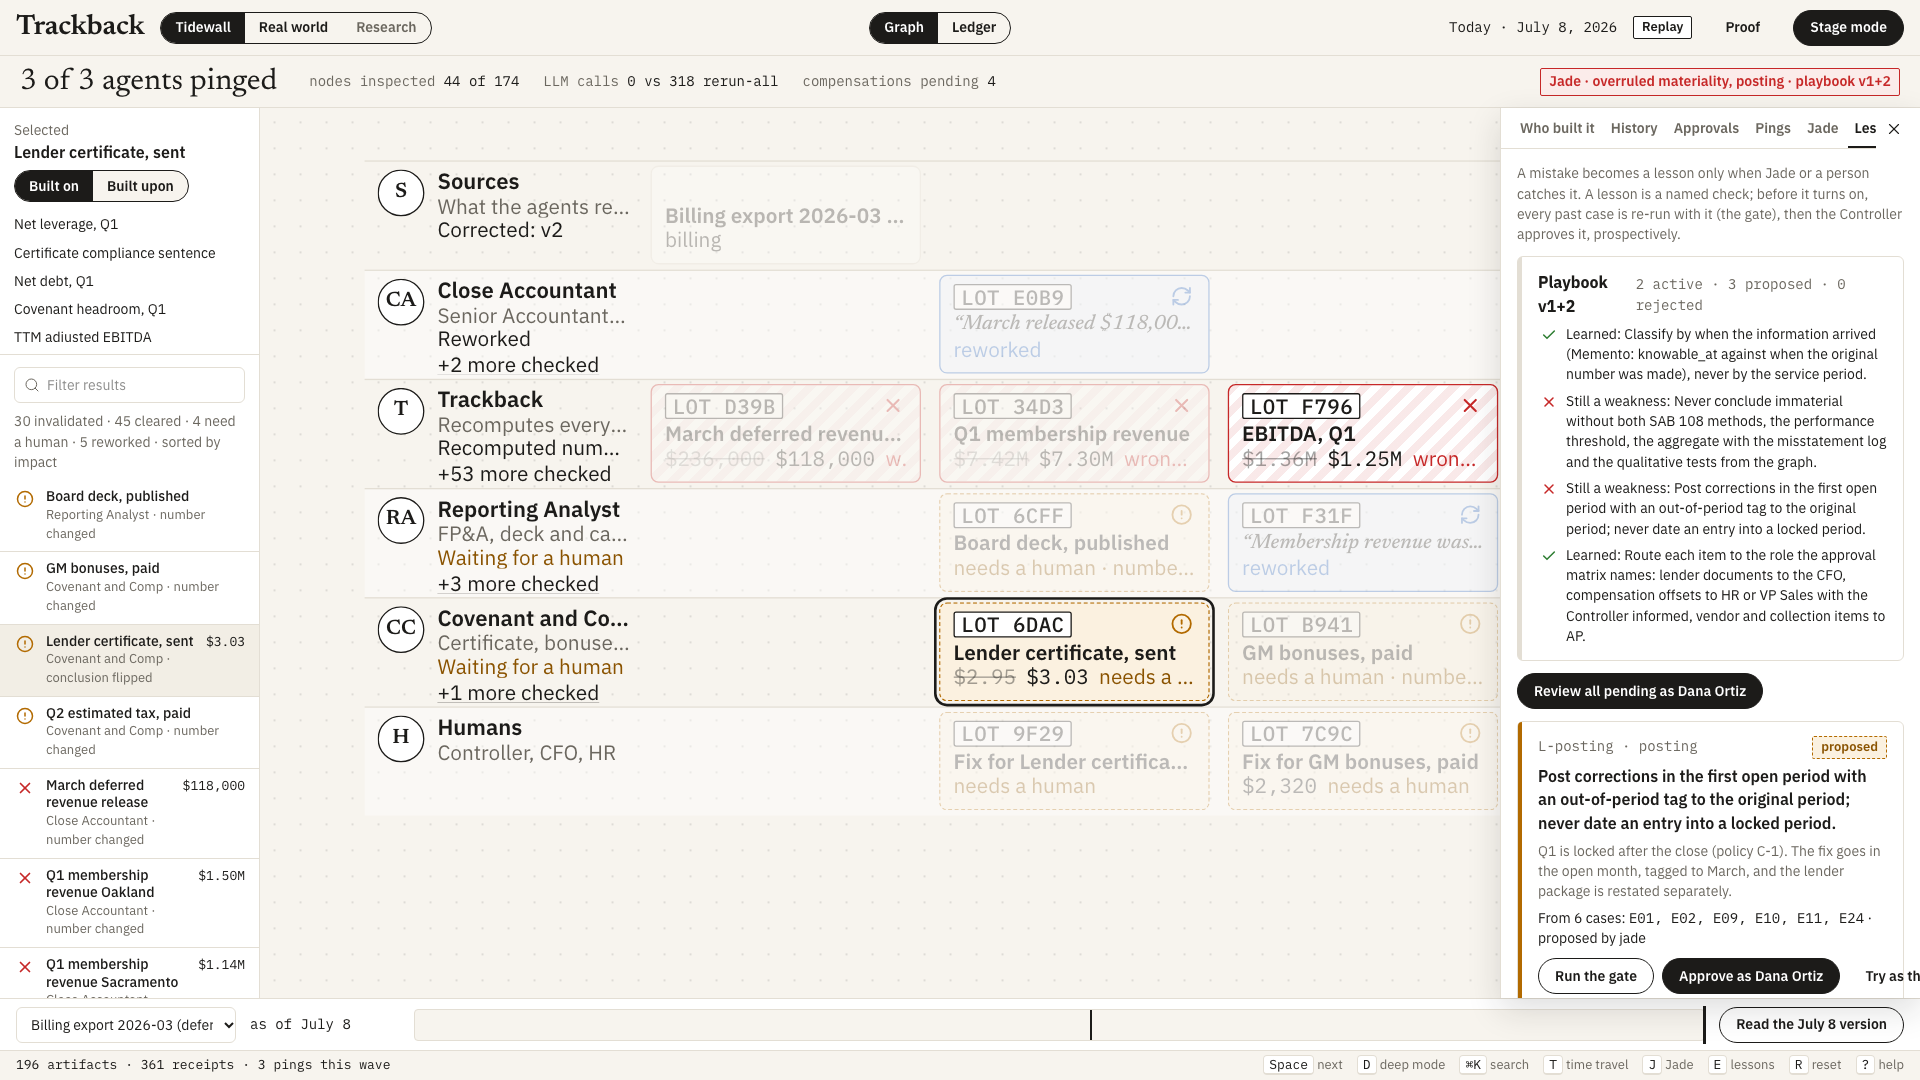
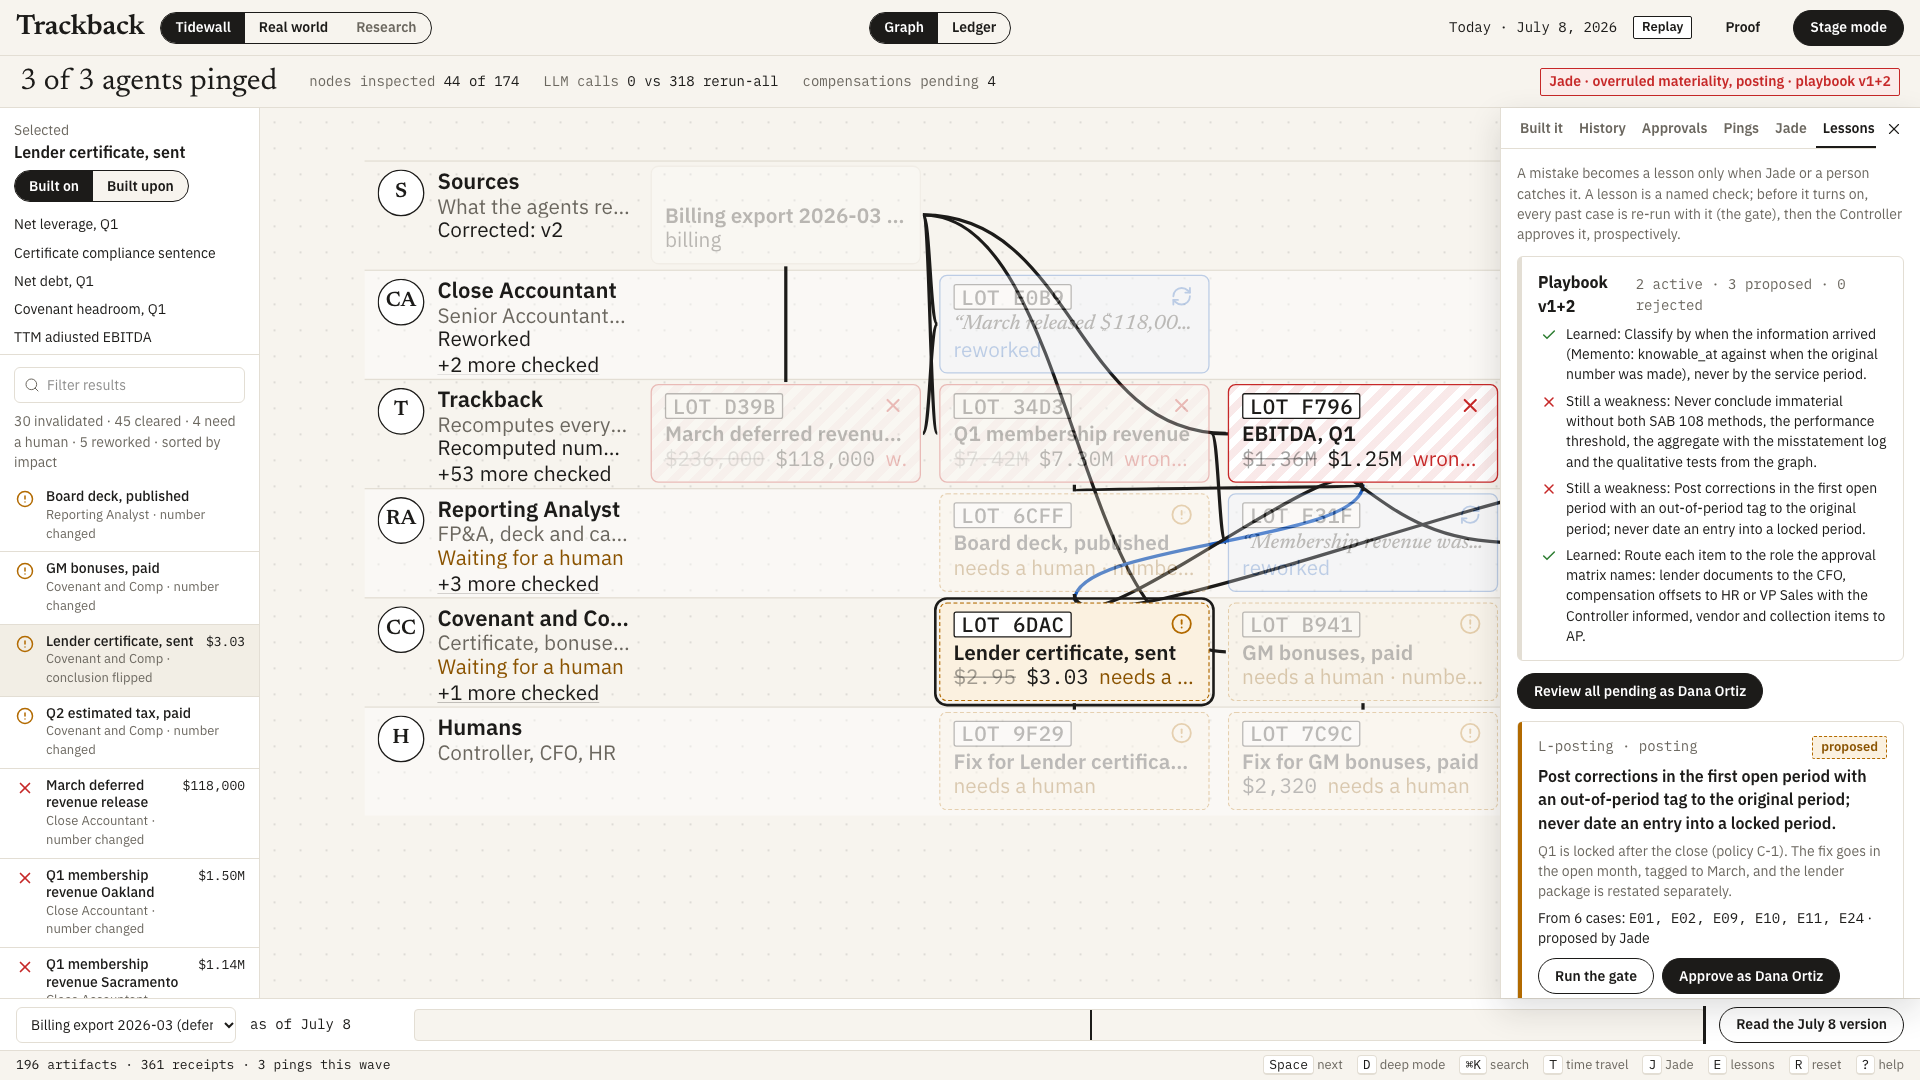
Polish the drawer tabs, lesson card wording and the title-card hint; round 5 screenshots

diff --git a/frontend/src/deep/Panels.tsx b/frontend/src/deep/Panels.tsx
@@ -76,7 +76,7 @@ export function Sidebar({ company, correction, graph, pings, selected, onSelect,
 export type DrawerTab = 'who' | 'history' | 'approvals' | 'pings' | 'review' | 'lessons' | 'norms'
 export function Drawer({ tab, setTab, onClose, selected, company, refreshKey, onChanged, people, pings, waves, challenges, correction }: { tab: DrawerTab; setTab: (t: DrawerTab) => void; onClose: () => void; selected: string | null; company: string
   refreshKey: number; onChanged: () => void; people: Record<string, string>; pings: any[]; waves: any[]; challenges: any[]; correction?: string | null }) {
-  const tabs: [DrawerTab, string][] = [['who', 'Who built it'], ['history', 'History'], ['approvals', 'Approvals'], ['pings', 'Pings'], ['review', 'Jade'], ['lessons', 'Lessons'], ['norms', 'Norms']]
+  const tabs: [DrawerTab, string][] = [['who', 'Built it'], ['history', 'History'], ['approvals', 'Approvals'], ['pings', 'Pings'], ['review', 'Jade'], ['lessons', 'Lessons'], ['norms', 'Norms']]
   return (
     <div className="drawer" role="complementary" aria-label="Details">
       <div style={{ display: 'flex', alignItems: 'center' }}>
@@ -272,9 +272,9 @@ export function Lessons({ refreshKey, onChanged, people }: { refreshKey: number;
         <div style={{ display: 'flex', justifyContent: 'space-between', gap: 8 }}><span className="mono t14 muted">{l.lesson_id} · {l.mistake_kind}</span><span className={`chip ${l.status === 'active' ? 'cleared' : l.status === 'proposed' ? 'caution' : 'recall'}`}>{l.status.replace(/_/g, ' ')}</span></div>
         <div className="t16" style={{ fontWeight: 600, margin: '6px 0' }}>{l.rule}</div>
         <div className="t14 muted">{l.guidance}</div>
-        <div className="t14" style={{ marginTop: 6 }}>From {l.cases.length} case{l.cases.length === 1 ? '' : 's'}: <span className="mono">{l.cases.join(', ')}</span> · proposed by {String(l.proposed_by).replace('human:', '')}{l.approved_by ? ` · approved by ${l.approved_by} ${dateLabel(l.approved_at)}` : ''}</div>
+        <div className="t14" style={{ marginTop: 6 }}>From {l.cases.length} case{l.cases.length === 1 ? '' : 's'}: <span className="mono">{l.cases.join(', ')}</span> · proposed by {String(l.proposed_by).replace('human:', '').replace(/^jade$/, 'Jade')}{l.approved_by ? ` · approved by ${l.approved_by} ${dateLabel(l.approved_at)}` : ''}</div>
         {g && <div className="t14" style={{ marginTop: 6, color: g.passed ? 'var(--cleared)' : 'var(--recall)' }}>Gate: {g.pass_after} of {g.claims} past claims pass ({g.pass_before} before) · {g.newly_failing.length} newly failing{g.newly_failing.length ? `: ${g.newly_failing.map((x: any) => `${x.case_id} ${x.claim}`).join(', ')}` : ''} · {g.newly_passing.length} newly passing</div>}
-        {l.status === 'proposed' && <div style={{ display: 'flex', gap: 8, marginTop: 10 }}>
+        {l.status === 'proposed' && <div style={{ display: 'flex', gap: 8, marginTop: 10, flexWrap: 'wrap' }}>
           <button className="btn" disabled={busy} onClick={() => act(() => api.gateLesson(l.lesson_id), 'Gate run.')}>Run the gate</button>
           <button className="btn primary" disabled={busy} onClick={() => act(() => api.approveLesson(l.lesson_id, controller), `Decided as ${controller}.`)}>Approve as {controller}</button>
           <button className="btn ghost" disabled={busy} title="Only the Controller approves a lesson" onClick={() => act(() => api.approveLesson(l.lesson_id, 'agent:close_accountant'), 'Approved.')}>Try as the agent</button>
